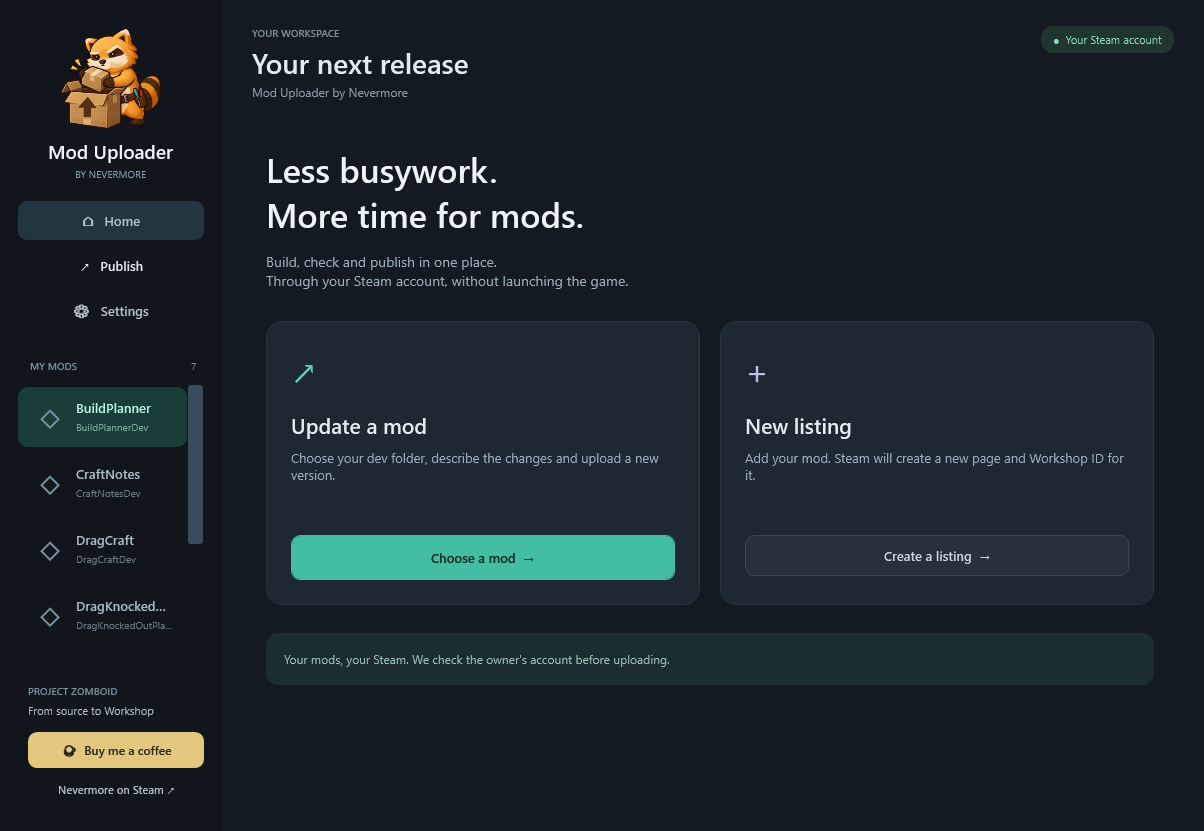
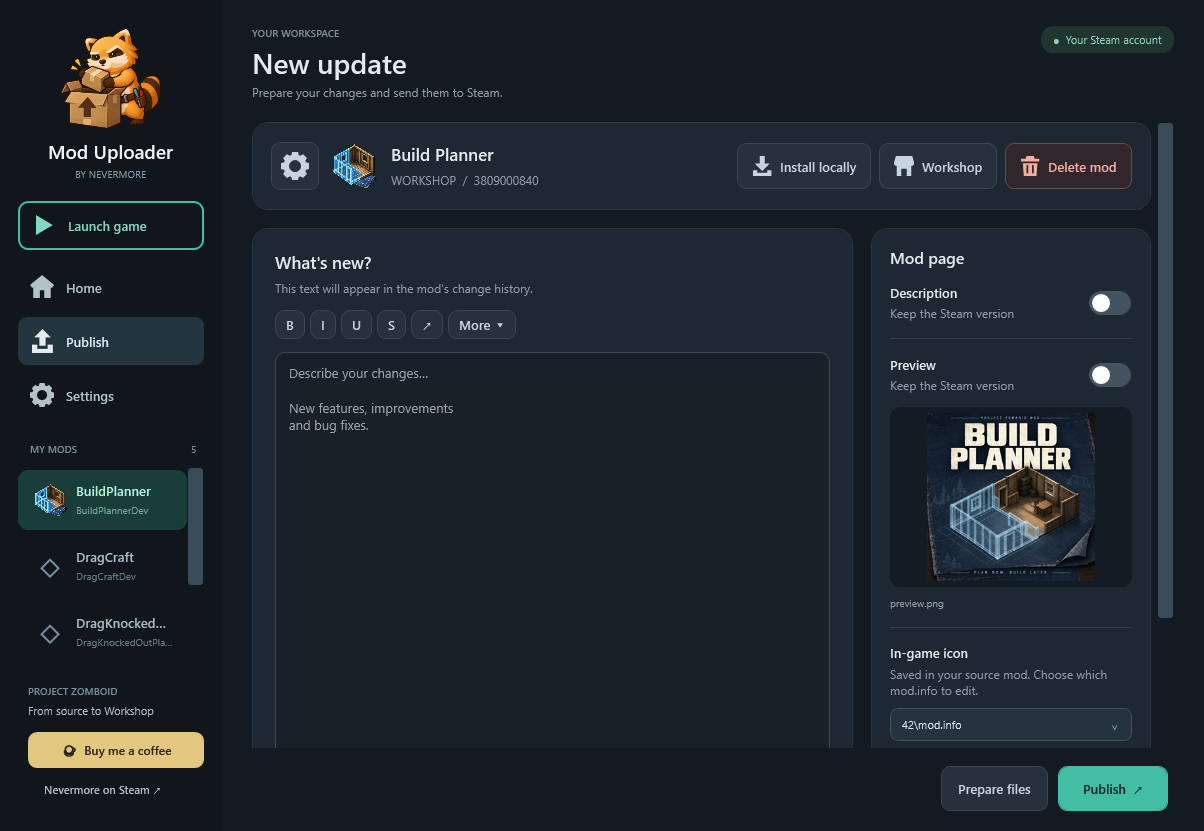
Prepare Mod Uploader 1.0.9 with English setup guide and screenshots

diff --git a/README.md b/README.md
@@ -1,68 +1,120 @@
 # Mod Uploader by Nevermore
 
-A standalone Windows tool for publishing **Project Zomboid** mods to Steam Workshop without launching the game.
+**Prepare, test and publish your Project Zomboid mods from one Windows app.**
 
-![Mod Uploader](assets/overview.png)
+Mod Uploader copies your prepared mod files into a Workshop upload folder, lets you write update notes and sends updates through your running Steam account. You can also install a local copy for testing and launch Project Zomboid through Steam. Publishing itself does not require launching the game.
 
-## Download
+[Download from Releases](https://github.com/NNevermore123/ModUploader/releases) · [What's new](CHANGELOG.md) · [1.0.9 release notes](release-notes/v1.0.9.md)
 
-Open this repository's **Releases** page and download `ModUploader.exe`. No installer or ZIP is required. `SHA256SUMS.txt` is provided alongside each release.
+![Mod Uploader: selected mod, update notes, independent metadata switches and local testing actions](assets/overview.png)
 
-This is a **closed-source release repository**. Application source code and development history are not included. GitHub's automatically generated “Source code” downloads contain this repository's documentation, not the application source. Download the attached EXE to use the tool.
+## Download and requirements
 
-## Features
+1. Open [Releases](https://github.com/NNevermore123/ModUploader/releases) and download the attached **ModUploader.exe**.
+2. Keep **SHA256SUMS.txt** if you want to verify the download. **RELEASE_NOTES.md** describes that version.
+3. Run the EXE. There is no installer, ZIP or separate application asset folder.
 
-- Dark interface with a choice to update an existing mod or create a new Workshop listing.
-- Formatted BBCode preview for update notes; click to edit the source text.
-- Separate mod settings beside the selected mod title.
-- Success confirmations with Spiffo and a green check, plus a three-second, click-dismissible publication overlay.
-- English by default, with an instant English / Русский switch in Settings.
-- Dev-project selection, optional preparation scripts for Java and Lua mods and file-integrity checks.
-- Steam BBCode changelog editor.
-- Independent description and preview toggles for existing listings. When off, those values are preserved in Steam.
-- New listing title, description, preview and visibility, with private visibility by default.
-- Saved Workshop IDs, progress feedback and detailed error logs.
-- Uses your running Steam account and verifies ownership before updates.
-- Removes missing source mods when you run Find mods, with optional local file deletion through Delete mod.
-- Steam BBCode controls in both update notes and descriptions.
-- Full-image Workshop previews and a separate in-game icon editor, with mod icons in the sidebar and header.
-- Transparent mascot logo and matching Windows application icon.
-- Internal Delete mod overlay with transparent Spiffo artwork, flickering firelight and three choices with tooltips.
-- Centered animated Spiffo during preparation/publication, with progress, status, wind and a brief green-check completion screen.
+You need **Windows x64**, **.NET Framework 4.8 or newer**, an installed Steam copy of **Project Zomboid**, and Steam running under the account that owns the Workshop item. The app uses the game's installed Steam API library; no Steam API DLL is included in the download.
 
-## Requirements
+**PowerShell 7 is needed only when you configure a preparation script.** Java or other build tools are needed only if your mod's build process requires them. Leaving the script field empty uploads files you have already prepared; the app does not compile or sign your mod automatically.
 
-- Windows x64 with .NET Framework 4.8 or newer.
-- An installed Steam copy of Project Zomboid and the Steam client running under your own account. The game can stay closed.
-- Your mod's dev files and Workshop folder. Set individual paths using the gear beside the mod title; set shared paths in **Settings**.
-- PowerShell 7 when using a preparation script. Java, Python or other build tools are only needed if your chosen project's script requires them.
+This repository contains product documentation and releases. GitHub's **Source code** ZIP/tar.gz downloads contain documentation, not the application. Download the attached EXE to use the tool.
 
-Choose **Settings → App language → English / Русский** to change the interface language. The choice is saved automatically, applies without restarting and keeps your drafts and publication options intact. The tool is for Project Zomboid, not a universal uploader for unrelated Steam games.
+## First setup
 
-## Use
+![Home screen: update an existing mod or create a new listing](assets/home.png)
 
-Choose **Update a mod** to select an existing project and enter a changelog. **Prepare files** only prepares the local Workshop folder; **Publish** also sends it to Steam.
+1. Open **Settings**. Check the Project Zomboid installation folder, development search folder and Workshop folder. Save the paths.
+2. Use **Find mods** to discover projects named `*Dev` inside the development search folder. Or use **+ Dev folder** to add one project directly.
+3. Select your mod and click the **gear beside its icon**. Check its repository folder, source folder, Workshop folder and optional `.ps1` preparation script. Save these mod settings.
 
-Choose **New listing** to prepare a local draft from your dev folder. Fill in the listing details and use **Create and publish** to allocate a Workshop ID and upload. If Steam requests the Workshop legal agreement, accept it on the item page. If creation times out with an uncertain result, inspect your Workshop items before retrying; the tool blocks blind duplicate creation.
+For discovery, keep each mod's ready-to-copy files inside `src/<ModFolder>`:
 
-The description/preview switches apply to updates of existing items. A new listing requires these fields. Avoid editing payload files while publishing.
+```text
+MyModDev/
+  src/
+    MyMod/
+      ... your mod files, including mod.info ...
+  Prepare-MyMod.ps1    (optional)
+```
 
-**Find mods** removes entries whose source folder or `mod.info` is missing. **Delete mod** lets you remove only the app entry, delete the Workshop folder, or delete Workshop plus the mod's source files. File deletion requires a second confirmation showing the exact folders. It does not remove the Steam listing or the surrounding dev repository. Use **+ Dev folder** to restore an entry you removed from the app.
+`mod.info` may be inside the appropriate game-version folder. Select the complete mod payload folder as **Source files**, rather than the whole development repository. The repository contains your development files; Source contains the files the game and Workshop should receive.
 
-Click the Workshop preview to see the full image. Under **In-game icon**, choose the mod version (`mod.info`), select a PNG and click **Apply to source files**. The source icon is saved separately from the Workshop preview and will be included when you next prepare/publish. Mods without an icon display a placeholder.
+For an **existing publication**, select its Workshop folder containing `workshop.txt`, `Contents/mods` and, when used, `preview.png`. Its `workshop.txt` must identify the existing Workshop item. For a **new publication**, use the New listing workflow below to create a local draft.
 
-Both editors have a **More** menu for headings, lists, quote, code, spoiler, divider, images, tables and embeds, plus [Steam's formatting reference](https://steamcommunity.com/comment/WorkshopItem/formattinghelp). Steam controls which tags render on each text surface.
+English is the default language. **Settings → App language → English / Русский** switches instantly and saves your preference. Your notes, descriptions, paths and publication options stay intact.
 
-## Signature and local data
+## Which button should I use?
 
-The EXE is Authenticode-signed with a **self-signed Nevermore certificate** and a timestamp. This provides a verifiable signature under that key; it is not a publicly trusted publisher certificate. Windows/SmartScreen warnings may still appear. No certificate installation or changes to Windows trust settings are required by this tool.
+| Action | What it does | Sends files to Steam? |
+|---|---|---|
+| **Prepare files** | Runs the selected preparation script, if any, then synchronizes Source into the local Workshop payload and checks file hashes. | No |
+| **Install locally** | Copies the current Source into `%USERPROFILE%\Zomboid\mods\<ModFolder>` after you review the exact destination and obsolete files. | No |
+| **Launch game** | Asks Steam to launch Project Zomboid so you can enable and test your mod. | No |
+| **Publish** | Prepares the Workshop payload and uploads it to the selected Workshop item. | Yes |
+| **Workshop** | Opens the mod's Workshop page. | No |
 
-No Steam credentials or signing private keys are embedded in the EXE. Settings and logs are stored under `%LOCALAPPDATA%/WorkshopPublisher`. Mod signing keys remain part of each author's own build setup. Branding and support links do not restrict uploads to the tool author's account.
+## Test your mod locally
 
-## Status
+1. Build or otherwise prepare your mod's **Source files** using your normal development workflow.
+2. Click **Install locally** in the selected mod's header.
+3. Review the source, local destination and list of files to delete, then confirm.
+4. Click **Launch game**, enable the mod in Project Zomboid and test it.
 
-Offline checks, UI state checks, cryptographic signature verification and read-only Steam connectivity have passed. Actual Steam item creation and update were not exercised during automated validation.
+![Local installation: source, exact local destination and obsolete-file review](assets/local-testing.png)
 
-## Author and support
+Local installation copies Source as it currently exists. **It does not run the preparation script, upload to Steam or launch the game automatically.** It replaces matching files and removes the obsolete files shown in the confirmation. Obsolete backup/archive files in that local copy can be removed after this review; no new backups are created. Keep version history in your own development repository.
+
+The local test copy and the Workshop upload folder are separate. After further edits, install again for local testing, then use Publish when you are ready to distribute the update. The Spiffo success screen closes after three seconds or when clicked.
+
+## Update an existing Workshop item
+
+1. Choose **Update a mod** or select your project in the sidebar.
+2. Enter your update notes. Both text editors provide Steam BBCode controls; the notes preview can be clicked to edit its source.
+3. Turn on **Description** or **Preview** only when you want to replace that value. Both switches are off by default for existing items, preserving those values on Steam.
+4. Optionally use **Prepare files** to inspect the local payload first. Click **Publish** to prepare and upload it.
+5. Wait for Steam's confirmation. If Steam requires the Workshop legal agreement, open the item page and accept it.
+
+Updates use the Workshop ID already associated with the project. The app checks the running Steam account against the item's owner. Nevermore branding does not restrict which author's mods can be uploaded.
+
+Do not edit payload files during preparation or publication. An explicitly configured script that is missing or fails stops the operation. Progress and the expandable log show the current phase and errors.
+
+## Create a new Workshop listing
+
+1. On Home, choose **New listing → Create a listing**.
+2. Select your development repository, prepared Source folder and an empty Workshop destination. Continue to create a **local draft**; this does not create a Steam item yet.
+3. Enter a **title**, **description**, **preview image** and **visibility**. All are required for an initial publication. Visibility defaults to **Private**.
+4. Click **Create and publish**. The app obtains a Workshop ID, saves it locally and uploads the prepared payload.
+5. Check the resulting Workshop page and any legal-agreement requirement before making the item public.
+
+If item creation times out with an uncertain result, check your Steam Workshop items before trying again. The app blocks a blind retry that could create a duplicate. A saved ID is reused for subsequent uploads.
+
+## Previews, icons and project management
+
+- **Workshop preview** is the listing image. Click it to view the full image.
+- **In-game icon** is separate: choose the source version's `mod.info`, select a PNG and click **Apply to source files**. Publish later to distribute the change.
+- **Find mods** removes app entries whose source folder or `mod.info` no longer exists. A missing Workshop folder alone does not remove a valid source project.
+- **Delete mod** can remove only the app entry, or also delete its local Workshop/source files. Physical deletion has a separate confirmation showing the exact paths. It does not delete the Steam listing or the surrounding development repository. Use **+ Dev folder** to add a removed entry again.
+
+Archive files, backup files and private key material do not belong in Source. Java JAR payloads require their accompanying `.jar.zbs` files. Mod build/signing remains part of your own development workflow.
+
+## Local data and Windows signature
+
+Settings and the latest operation log are stored under `%LOCALAPPDATA%\WorkshopPublisher`. Update-note drafts survive switching mods during the current session; do not rely on them being saved after closing the app. No Steam login form is required: the installed Steam session supplies the account. No Steam credentials or signing private keys are embedded in the EXE.
+
+The EXE is Authenticode-signed with the **self-signed Nevermore certificate** and a timestamp. This does **not** establish public Windows trust or remove SmartScreen warnings. The app does not require importing a certificate or changing Windows trust settings.
+
+To compare your download with the release checksum, run this in the folder containing the downloaded files:
+
+```powershell
+Get-FileHash .\ModUploader.exe -Algorithm SHA256
+Get-Content .\SHA256SUMS.txt
+```
+
+The EXE's hash must match the value beside `ModUploader.exe` in `SHA256SUMS.txt`.
+
+## Validation and support
+
+Release preparation checks offline behavior, UI states, local-copy fixtures and the signed EXE's cryptographic integrity. Screenshots show the English interface. Automated checks do not perform real Steam publication or prove your mod works in gameplay or multiplayer; test those separately.
 
 [Nevermore on Steam](https://steamcommunity.com/profiles/76561198179591723/) · [Buy Me a Coffee](https://buymeacoffee.com/nnevermore)

diff --git a/release-notes/v1.0.9.md b/release-notes/v1.0.9.md
@@ -1,0 +1,34 @@
+# Mod Uploader by Nevermore 1.0.9
+
+Prepare, test and publish Project Zomboid mods from a standalone Windows app using your installed Steam session.
+
+## New in 1.0.9
+
+- **Install locally** copies the selected mod's prepared Source into your user-profile `Zomboid/mods` folder for game testing.
+- Review the exact source, destination and obsolete files before installing. Confirmed obsolete local backup/archive files can be removed without creating new backups.
+- **Launch game** starts Project Zomboid through Steam using the green-outlined sidebar button.
+- Mod actions remain on the same line as the mod icon and title, with larger buttons and filled vector icons. Navigation and settings icons are clearer too.
+- Successful local installation shows Spiffo with a green check. It closes after three seconds or on click.
+- The public README now explains setup, folder layout, local testing, existing updates and new listings, with current English screenshots.
+
+## Included features
+
+- Update existing Workshop items or create a new listing with a saved Workshop ID.
+- Independent description/preview switches for updates; required title, description, preview and visibility for new listings, with Private selected by default.
+- Optional preparation scripts, payload synchronization, file-hash checks, upload progress and error details.
+- BBCode controls in both text editors, a formatted update-note preview, and a separate source in-game icon editor.
+- English by default and instant English/Russian switching without losing the current fields or options.
+
+## Download and use
+
+Download **ModUploader.exe** from this release and follow the [README](https://github.com/NNevermore123/ModUploader#readme). There is no installer or ZIP. **SHA256SUMS.txt** contains the EXE checksum; **RELEASE_NOTES.md** is a copy of these notes.
+
+Requires Windows x64, .NET Framework 4.8 or newer, an installed Steam copy of Project Zomboid, and Steam running under the Workshop item's owner account. PowerShell 7 is needed only for a configured preparation script. No Steam API DLL is redistributed.
+
+Local installation copies the current Source; it does not run a build script or upload anything. Prepare/build your mod first, install it locally, enable it in the game and test it before publishing.
+
+## Verification
+
+Offline and UI checks passed, including synthetic local installs, obsolete-backup cleanup, preserved drafts/options, and completion dismissal by timer and click. English and Russian renders were inspected at normal and compact sizes. Automated tests did not launch the game or submit real Steam create/update operations.
+
+The EXE's cryptographic Authenticode signature, PE digest and timestamp are verified during release preparation. It uses the existing **self-signed Nevermore certificate**; this does not establish public Windows trust or remove SmartScreen warnings.

diff --git a/CHANGELOG.md b/CHANGELOG.md
@@ -1,5 +1,16 @@
 # Changelog
 
+## 1.0.9
+
+- Added local mod installation with exact-path and obsolete-file confirmation.
+- Allowed confirmed cleanup of obsolete backups/archives in the local test copy without creating backups.
+- Added a green-outlined Launch game button for Project Zomboid through Steam.
+- Added larger mod action buttons, filled vector icons and a clearer settings gear, keeping actions beside the mod icon and title.
+- Added Spiffo success feedback after local installation, dismissed after three seconds or on click.
+- Rewrote the English README with setup and usage workflows and current English screenshots.
+
+See [release notes](release-notes/v1.0.9.md).
+
 ## 1.0.8
 
 - Preparation scripts are now optional for all mods, including Java.
